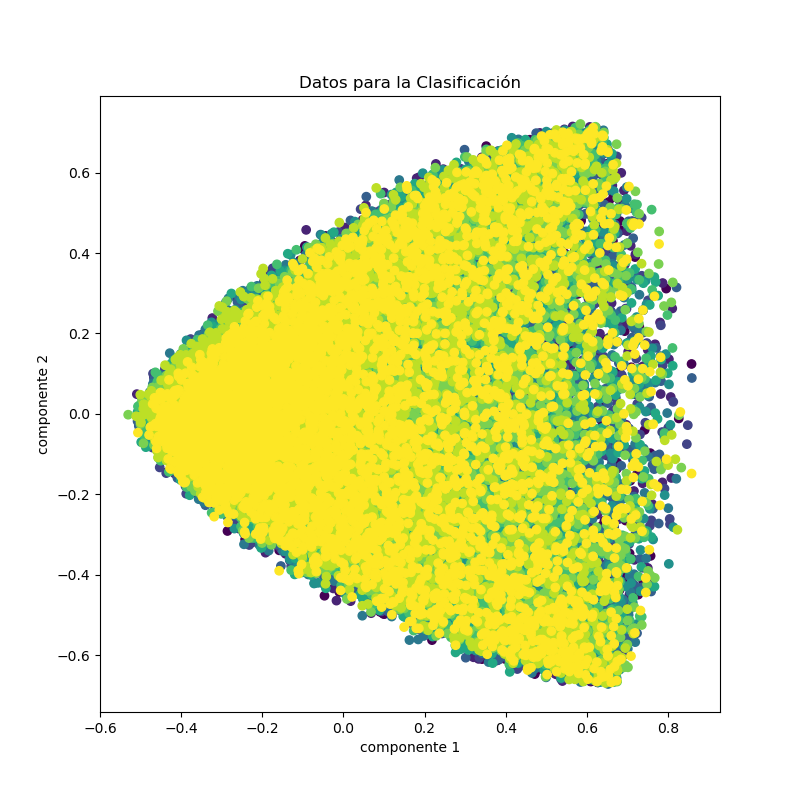
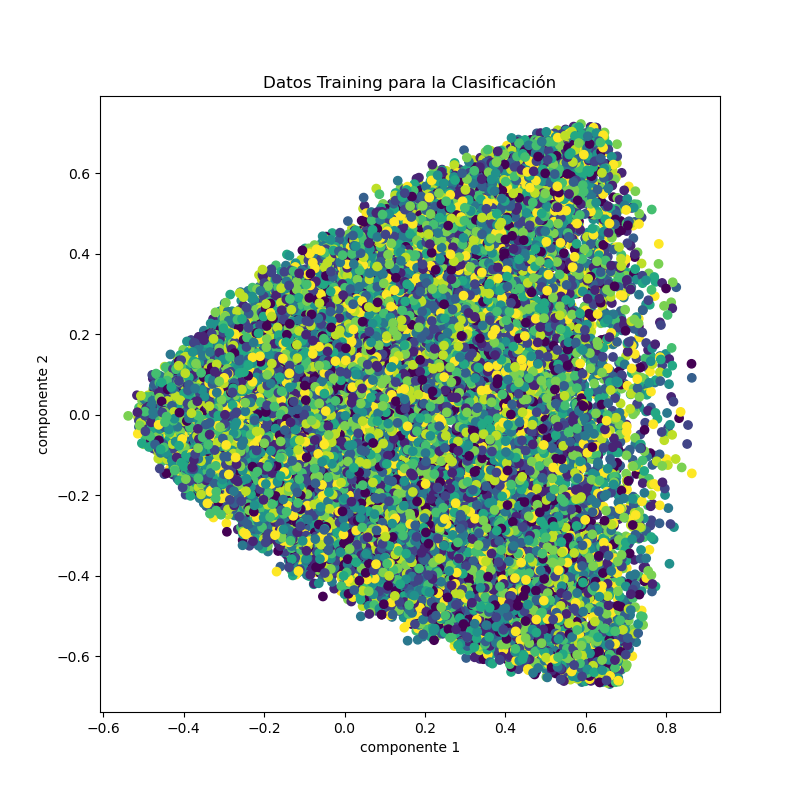
fixed some errors to normalizer and partition samples

diff --git a/P3/practica3.py b/P3/practica3.py
@@ -9,7 +9,7 @@ import numpy as np
 #para abrir el archivo csv
 import csv
 #para normalizar los datos
-from sklearn.preprocessing import Normalizer
+from sklearn.preprocessing import StandardScaler
 
 # para visualizar los datos en una grafica necesitamos:
 import pandas as pd # crea el formato 2D
@@ -56,10 +56,6 @@ def readData(archivo, tipo):
                 datos.append(data)
             datos = np.array(datos, dtype='f4')
             
-            #normalizamos los datos
-            normalizer = Normalizer().fit(datos)
-            datos = normalizer.transform(datos)
-            
             #Y separamos los datos de las etiquetas
             x = datos
             y = np.array(y, dtype='f4') #datos[:, datos.shape[1]-1:datos.shape[1]]
@@ -81,10 +77,6 @@ def readData(archivo, tipo):
             #indicamos el formato de los datos de tipo float con 4 decimales
             datos = np.array(datos, dtype='f4')
             
-            #normalizamos los datos
-            normalizer = Normalizer().fit(datos)
-            datos = normalizer.transform(datos)
-            
             #Y separamos los datos de las etiquetas
             x = datos[:, :-1]
             y = datos[:, datos.shape[1]-1:datos.shape[1]]
@@ -93,63 +85,6 @@ def readData(archivo, tipo):
 
 x_class,y_class = readData('datos/clasificacion/Sensorless_drive_diagnosis.txt','txt')
 x_reg,y_reg = readData('datos/regresion/train.csv','csv')
-
-
-# #MOSTAR GRAFICA 2D de los datos de la clasificación
-# #transformamos los datos de kd a 2d
-# pca = PCA(n_components=2)#indicamos la dimensionalidad
-# #transformamos los datos
-# principalComponents = pca.fit_transform(x_class)
-# #creamos la estructura para una visualización correcta de los datos en 2D
-# principalXlabel = pd.DataFrame(data = principalComponents, columns = ['componente 1', 'componente 2'])
-# #esto es para la etiqueta
-# pca = PCA(n_components=1)#indicamos la dimensionalidad
-# #y creamos la estructura con el mismo formato
-# principalYlabel = pd.DataFrame(data = y_class, columns = ['target'])
-
-# #concatenamos los datos y las etiquetas
-# finalDf = pd.concat([principalXlabel, principalYlabel], axis=1)
-
-# print('DATOS PARA LA CLASIFICACIÓN')
-# print(finalDf)
-
-# #Visualización grafica,
-# fig = plt.figure(figsize=(8,8))
-# ax = fig.add_subplot(1,1,1)
-# ax.set_xlabel('componente 1')
-# ax.set_ylabel('componente 2')
-# ax.set_title('Datos para la Clasificación')
-# ax.scatter(finalDf['componente 1'],finalDf['componente 2'],c=finalDf['target'])
-# fig.show()
-
-
-# #MOSTAR GRAFICA 2D de los datos para la regresión
-# #transformamos los datos de kd a 2d
-# pca = PCA(n_components=2)#indicamos la dimensionalidad
-# #transformamos los datos
-# principalComponents = pca.fit_transform(x_reg)
-# #creamos la estructura para una visualización correcta de los datos en 2D
-# principalXlabel = pd.DataFrame(data = principalComponents, columns = ['componente 1', 'componente 2'])
-# #esto es para la etiqueta
-# pca = PCA(n_components=1)#indicamos la dimensionalidad
-# #y creamos la estructura con el mismo formato
-# principalYlabel = pd.DataFrame(data = y_reg, columns = ['target'])
-
-# #concatenamos los datos y las etiquetas
-# finalDf = pd.concat([principalXlabel, principalYlabel], axis=1)
-# print('DATOS PARA LA REGRESIÓN')
-# print(finalDf)
-
-# #Visualización grafica,
-# fig = plt.figure(figsize=(8,8))
-# ax = fig.add_subplot(1,1,1)
-# ax.set_xlabel('componente 1')
-# ax.set_ylabel('componente 2')
-# ax.set_title('Datos para la Regresión')
-# ax.scatter(finalDf['componente 1'],finalDf['componente 2'],c=finalDf['target'])
-# fig.show()
-
-# input("\n--- Pulsar tecla para continuar ---\n")
 
 #divido la muestra total en 2 muestras una para el training y otra para el test
 #Para ello crearemos 2 listas de indices que se barajaran y en principio 
@@ -203,28 +138,103 @@ y_training_reg = np.array(y_training_reg)
 x_test_reg = np.array(x_test_reg)
 y_test_reg = np.array(y_test_reg)
 
+#normalizamos los datos
+
+scaler = StandardScaler()
+
+x_training_class = scaler.fit_transform(x_training_class)
+x_test_class = scaler.fit_transform(x_test_class)
+
+x_training_reg = scaler.fit_transform(x_training_reg)
+x_test_reg = scaler.fit_transform(x_test_reg)
+
 
 print("Numero de datos para el training (clasificacion): ",y_training_class.size)
 print("Numero de datos para el test (clasificacion): ",y_test_class.size)
 print("Numero de datos para el training (regresión): ",y_training_reg.size)
 print("Numero de datos para el test (regresion): ",y_test_reg.size)
 
-# #RidgeClassifier
-# #creamos nuestro modelo
-# logistic = RidgeClassifier().fit(x_training_class, y_training_class)
-# #lo probamos con el conjunto de test
-# predicted = logistic.predict(x_test_class)
-# #y comprobamos como de buenos son los resultados
-# result = classification_report(y_test_class,predicted)
 
-# #Mostrarmos los resultados
-# print("RidgeClassifier:")
-# print("\tEin: ",accuracy_score(y_training_class, logistic.predict(x_training_class)))
-# print("\tEtest: ",accuracy_score(y_test_class, logistic.predict(x_test_class)))
-# print("\tEout: ",accuracy_score(y_class, logistic.predict(x_class)))
-# print("\tPrecisión media training: ",logistic.score(x_training_class,y_training_class))
-# print("\tPrecisión media test: ",logistic.score(x_test_class,y_test_class))
-# print("\t Tabla resultados:\n",result)
+
+
+#MOSTAR GRAFICA 2D de los datos de la clasificación
+#transformamos los datos de kd a 2d
+pca = PCA(n_components=2)#indicamos la dimensionalidad
+#transformamos los datos
+principalComponents = pca.fit_transform(x_training_class)
+#creamos la estructura para una visualización correcta de los datos en 2D
+principalXlabel = pd.DataFrame(data = principalComponents, columns = ['componente 1', 'componente 2'])
+#esto es para la etiqueta
+pca = PCA(n_components=1)#indicamos la dimensionalidad
+#y creamos la estructura con el mismo formato
+principalYlabel = pd.DataFrame(data = y_training_class, columns = ['target'])
+
+#concatenamos los datos y las etiquetas
+finalDf = pd.concat([principalXlabel, principalYlabel], axis=1)
+
+print('DATOS PARA LA CLASIFICACIÓN')
+#print(finalDf)
+
+for i in finalDf['componente 1']:
+    if(i>20):
+        print(i)
+
+#Visualización grafica,
+fig = plt.figure(figsize=(8,8))
+ax = fig.add_subplot(1,1,1)
+ax.set_xlabel('componente 1')
+ax.set_ylabel('componente 2')
+ax.set_title('Datos Training para la Clasificación')
+ax.scatter(finalDf['componente 1'],finalDf['componente 2'],c=finalDf['target'])
+fig.show()
+
+
+# #MOSTAR GRAFICA 2D de los datos para la regresión
+# #transformamos los datos de kd a 2d
+# pca = PCA(n_components=2)#indicamos la dimensionalidad
+# #transformamos los datos
+# principalComponents = pca.fit_transform(x_training_reg)
+# #creamos la estructura para una visualización correcta de los datos en 2D
+# principalXlabel = pd.DataFrame(data = principalComponents, columns = ['componente 1', 'componente 2'])
+# #esto es para la etiqueta
+# pca = PCA(n_components=1)#indicamos la dimensionalidad
+# #y creamos la estructura con el mismo formato
+# principalYlabel = pd.DataFrame(data = y_training_reg, columns = ['target'])
+
+# #concatenamos los datos y las etiquetas
+# finalDf = pd.concat([principalXlabel, principalYlabel], axis=1)
+# print('DATOS PARA LA REGRESIÓN')
+# print(finalDf)
+
+# #Visualización grafica,
+# fig = plt.figure(figsize=(8,8))
+# ax = fig.add_subplot(1,1,1)
+# ax.set_xlabel('componente 1')
+# ax.set_ylabel('componente 2')
+# ax.set_title('Datos Training para la Regresión')
+# ax.scatter(finalDf['componente 1'],finalDf['componente 2'],c=finalDf['target'])
+# fig.show()
+
+# input("\n--- Pulsar tecla para continuar ---\n")
+
+
+
+#RidgeClassifier
+#creamos nuestro modelo
+logistic = RidgeClassifier().fit(x_training_class, y_training_class)
+#lo probamos con el conjunto de test
+predicted = logistic.predict(x_test_class)
+#y comprobamos como de buenos son los resultados
+result = classification_report(y_test_class,predicted)
+
+#Mostrarmos los resultados
+print("RidgeClassifier:")
+print("\tEin: ",accuracy_score(y_training_class, logistic.predict(x_training_class)))
+print("\tEtest: ",accuracy_score(y_test_class, logistic.predict(x_test_class)))
+print("\tEout: ",accuracy_score(y_class, logistic.predict(x_class)))
+print("\tPrecisión media training: ",logistic.score(x_training_class,y_training_class))
+print("\tPrecisión media test: ",logistic.score(x_test_class,y_test_class))
+print("\tTabla resultados:\n",result)
 
 # input("\n--- Pulsar tecla para continuar ---\n")
 
@@ -244,29 +254,47 @@ print("Numero de datos para el test (regresion): ",y_test_reg.size)
 # print("\tEout: ",accuracy_score(y_class, logistic.predict(x_class)))
 # print("\tPrecisión media training: ",logistic.score(x_training_class,y_training_class))
 # print("\tPrecisión media test: ",logistic.score(x_test_class,y_test_class))
-# print("\t Tabla resultados:\n",result)
+# print("\tTabla resultados:\n",result)
 
 # input("\n--- Pulsar tecla para continuar ---\n")
 
-#Perceptron
-#creamos nuestro modelo
-logistic = Perceptron().fit(x_training_class, y_training_class.ravel())
-#clasificamos el conjunto test con nuestro modelo
-predicted = logistic.predict(x_test_class)
-#y comprobamos como de buenos son los resultados
-result = classification_report(y_test_class,predicted)
+# #Perceptron
+# #creamos nuestro modelo
+# logistic = Perceptron().fit(x_training_class, y_training_class.ravel())
+# #clasificamos el conjunto test con nuestro modelo
+# predicted = logistic.predict(x_test_class)
+# #y comprobamos como de buenos son los resultados
+# result = classification_report(y_test_class,predicted)
 
-#Mostrarmos los resultados
-print("Perceptron:")
-print("\tEin: ",accuracy_score(y_training_class, logistic.predict(x_training_class)))
-print("\tEtest: ",accuracy_score(y_test_class, logistic.predict(x_test_class)))
-print("\tEout: ",accuracy_score(y_class, logistic.predict(x_class)))
-print("\tPrecisión media training: ",logistic.score(x_training_class,y_training_class))
-print("\tPrecisión media test: ",logistic.score(x_test_class,y_test_class))
-print("\t Tabla resultados:\n",result)
+# #Mostrarmos los resultados
+# print("Perceptron:")
+# print("\tEin: ",accuracy_score(y_training_class, logistic.predict(x_training_class)))
+# print("\tEtest: ",accuracy_score(y_test_class, logistic.predict(x_test_class)))
+# print("\tEout: ",accuracy_score(y_class, logistic.predict(x_class)))
+# print("\tPrecisión media training: ",logistic.score(x_training_class,y_training_class))
+# print("\tPrecisión media test: ",logistic.score(x_test_class,y_test_class))
+# print("\tTabla resultados:\n",result)
 
+# input("\n--- Pulsar tecla para continuar ---\n")
 
+# #SGD (STOCHASTIC GRADIENT DESCENT)
+# #creamos nuestro modelo
+# logistic = SGDClassifier().fit(x_training_class, y_training_class.ravel())
+# #clasificamos el conjunto test con nuestro modelo
+# predicted = logistic.predict(x_test_class)
+# #y comprobamos como de buenos son los resultados
+# result = classification_report(y_test_class,predicted)
 
+# #Mostrarmos los resultados
+# print("SGD (Gradiente Descendiente Estocástico):")
+# print("\tEin: ",accuracy_score(y_training_class, logistic.predict(x_training_class)))
+# print("\tEtest: ",accuracy_score(y_test_class, logistic.predict(x_test_class)))
+# print("\tEout: ",accuracy_score(y_class, logistic.predict(x_class)))
+# print("\tPrecisión media training: ",logistic.score(x_training_class,y_training_class))
+# print("\tPrecisión media test: ",logistic.score(x_test_class,y_test_class))
+# print("\tTabla resultados:\n",result)
+
+# input("\n--- Pulsar tecla para continuar ---\n")
 
 
 
